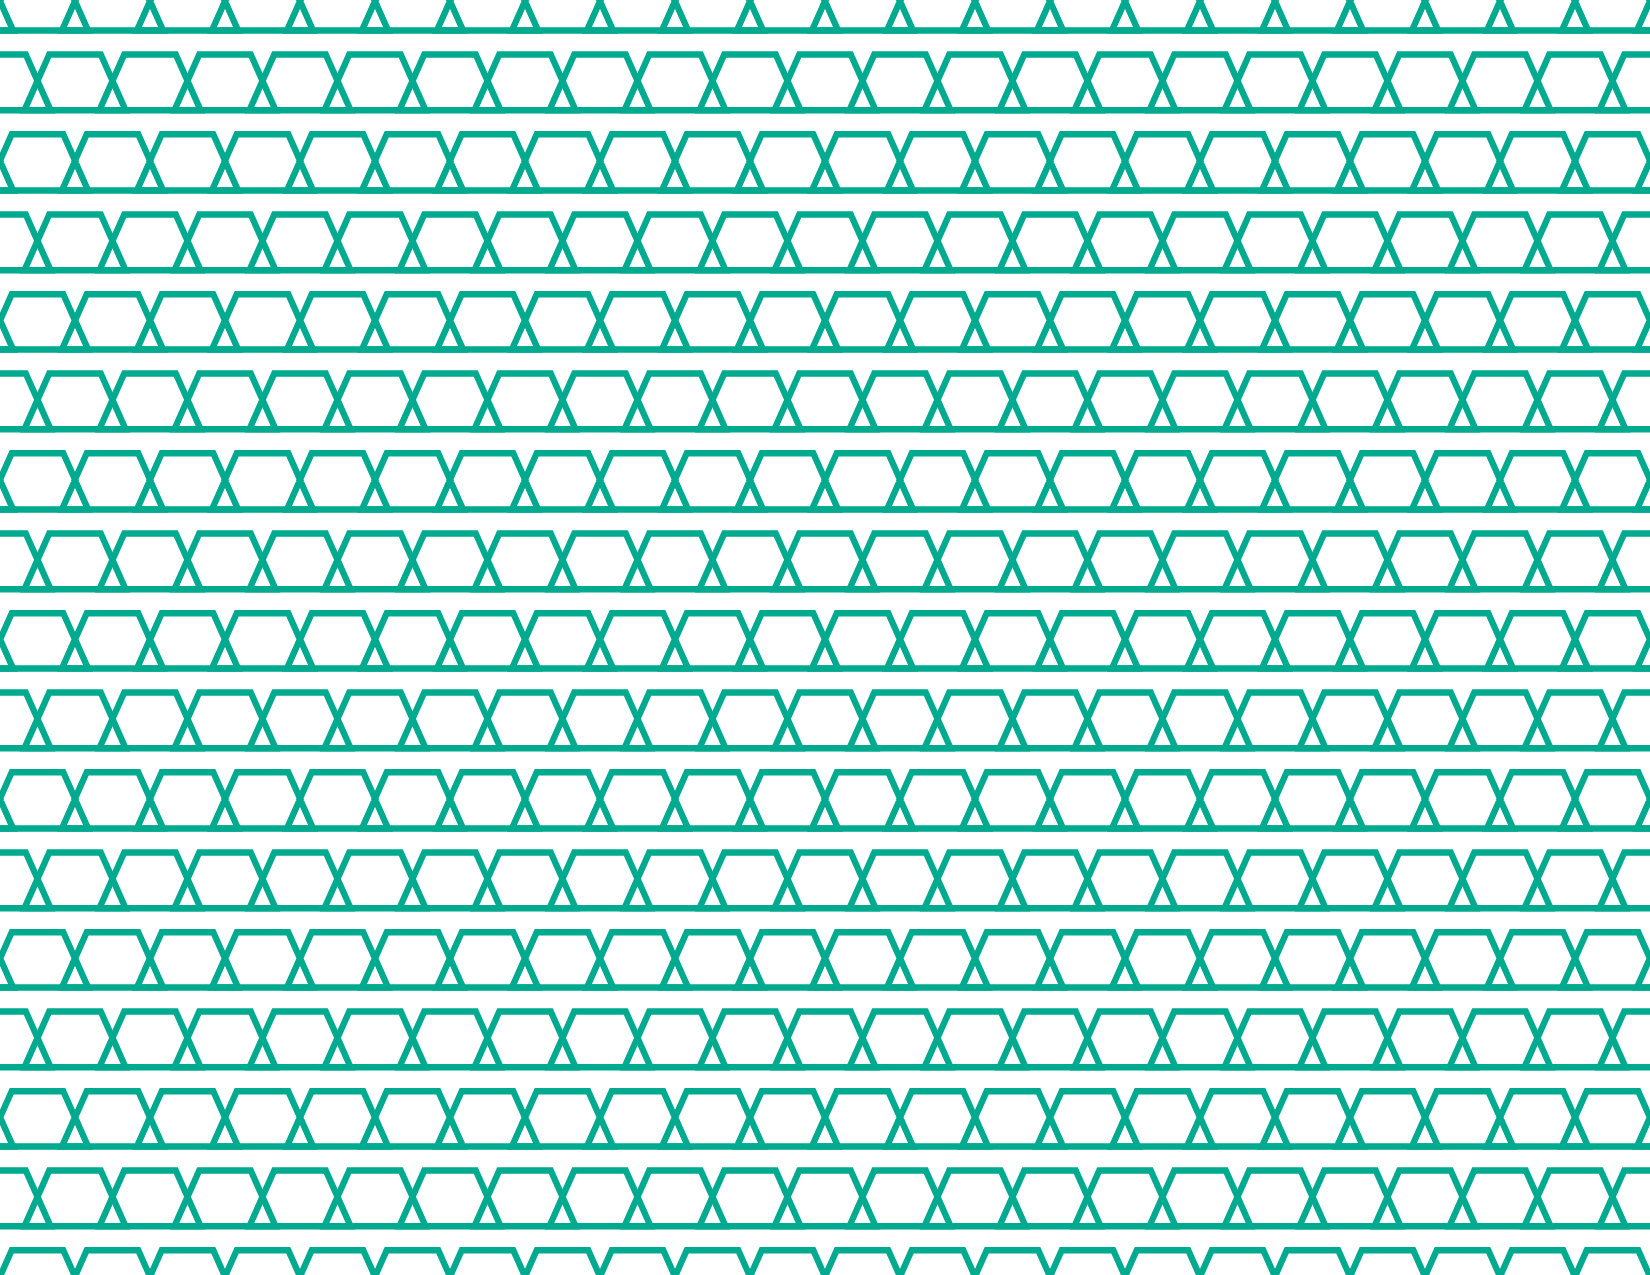
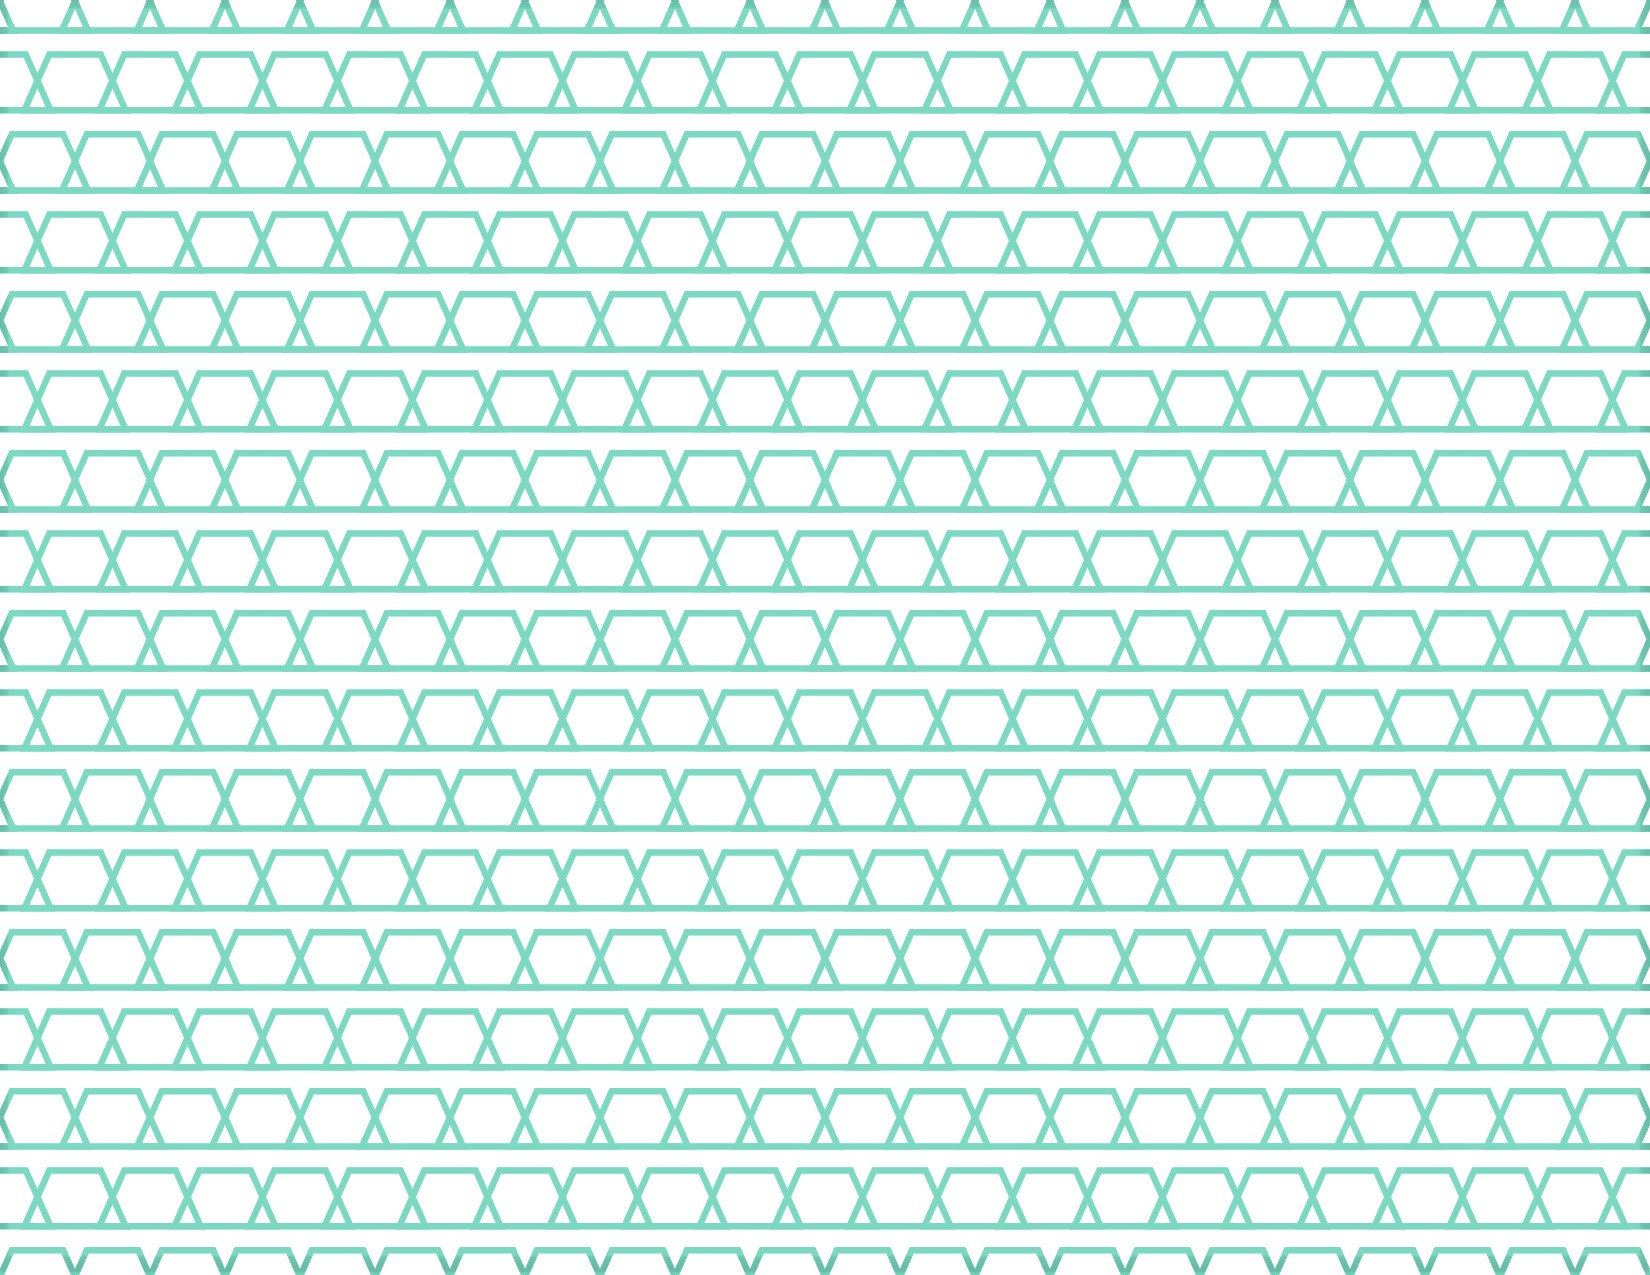
a few aesthetic bits n bops

Changed region(s): [[0.0, 0.0, 1.0, 1.0]]

diff --git a/fire.css b/fire.css
@@ -58,11 +58,16 @@ body {
   transition: margin-top .5s;
   margin-bottom: 200px;
   background-image: url("midewin/stolenimage-01.jpg");
+  filter: opacity(.8);
   background-attachment: fixed;
   background-position: center;
   background-repeat: repeat;
   background-size: cover;
   overflow-x: hidden;
+}
+
+#wrapper2 .post {
+  filter: opacity(1.0);
 }
 
 #title {

diff --git a/charleston.css b/charleston.css
@@ -34,7 +34,7 @@ body {
 
 .wrapper {
   /* The image used */
-  
+
 }
 
 .wide img {
@@ -50,6 +50,7 @@ body {
   transition: margin-top .5s;
   margin-bottom: 200px;
   background-image: url("stolenimage.jpg");
+  filter: opacity(.8);
   background-attachment: fixed;
   background-position: center;
   background-repeat: repeat;
